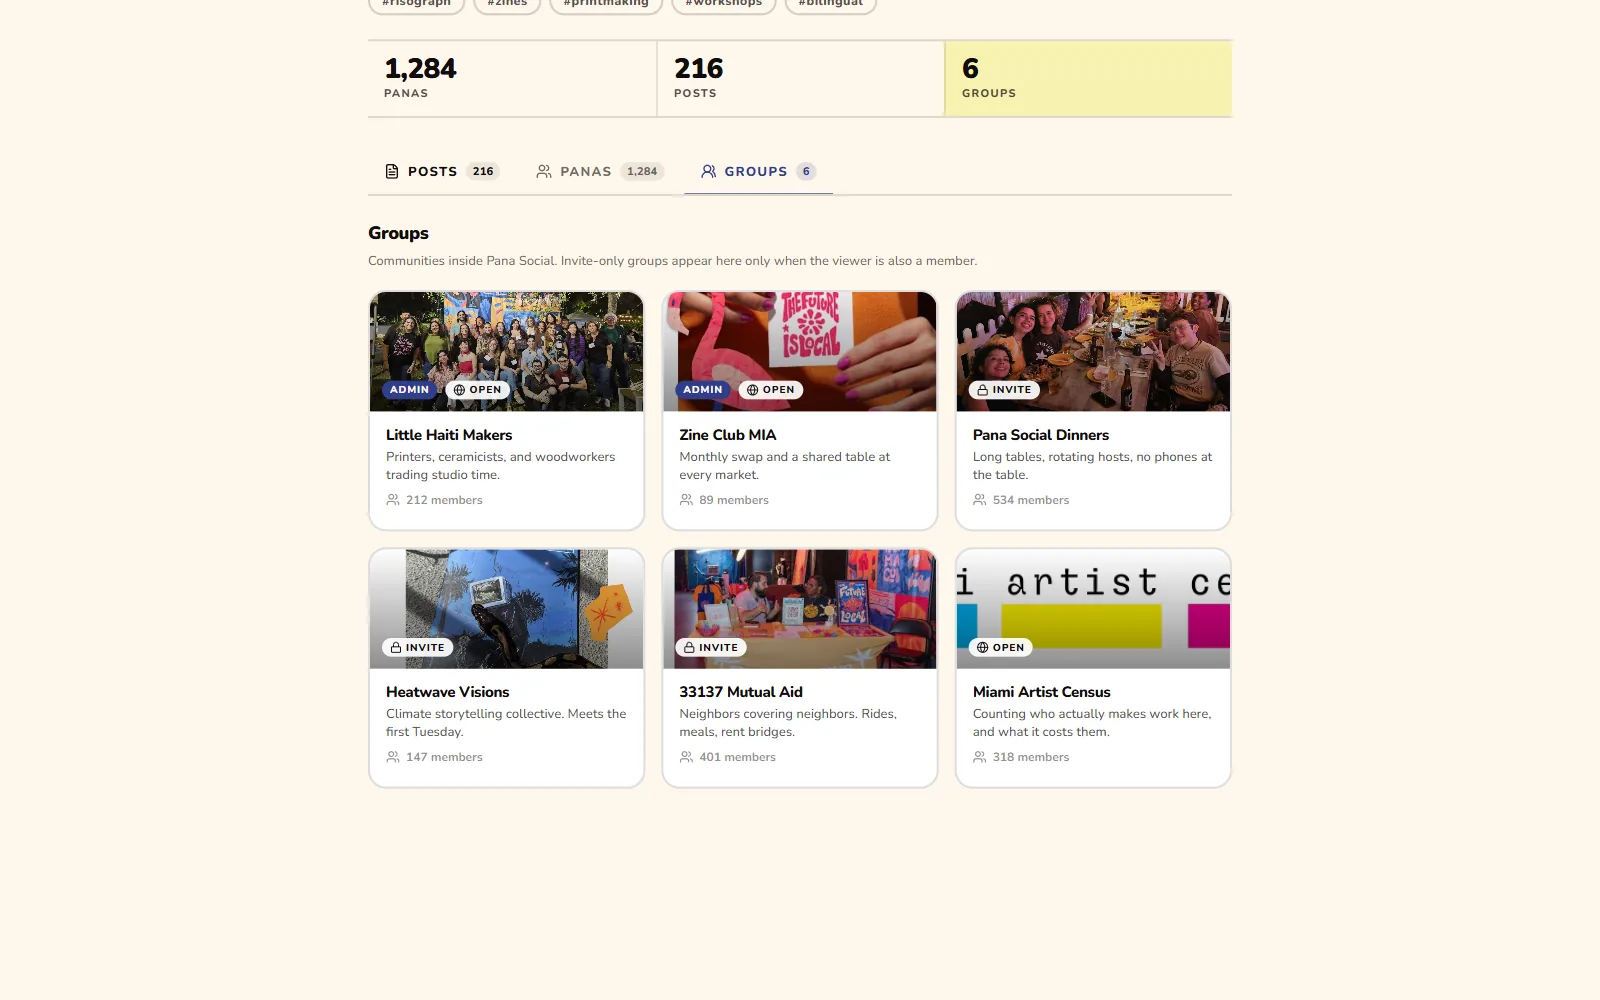
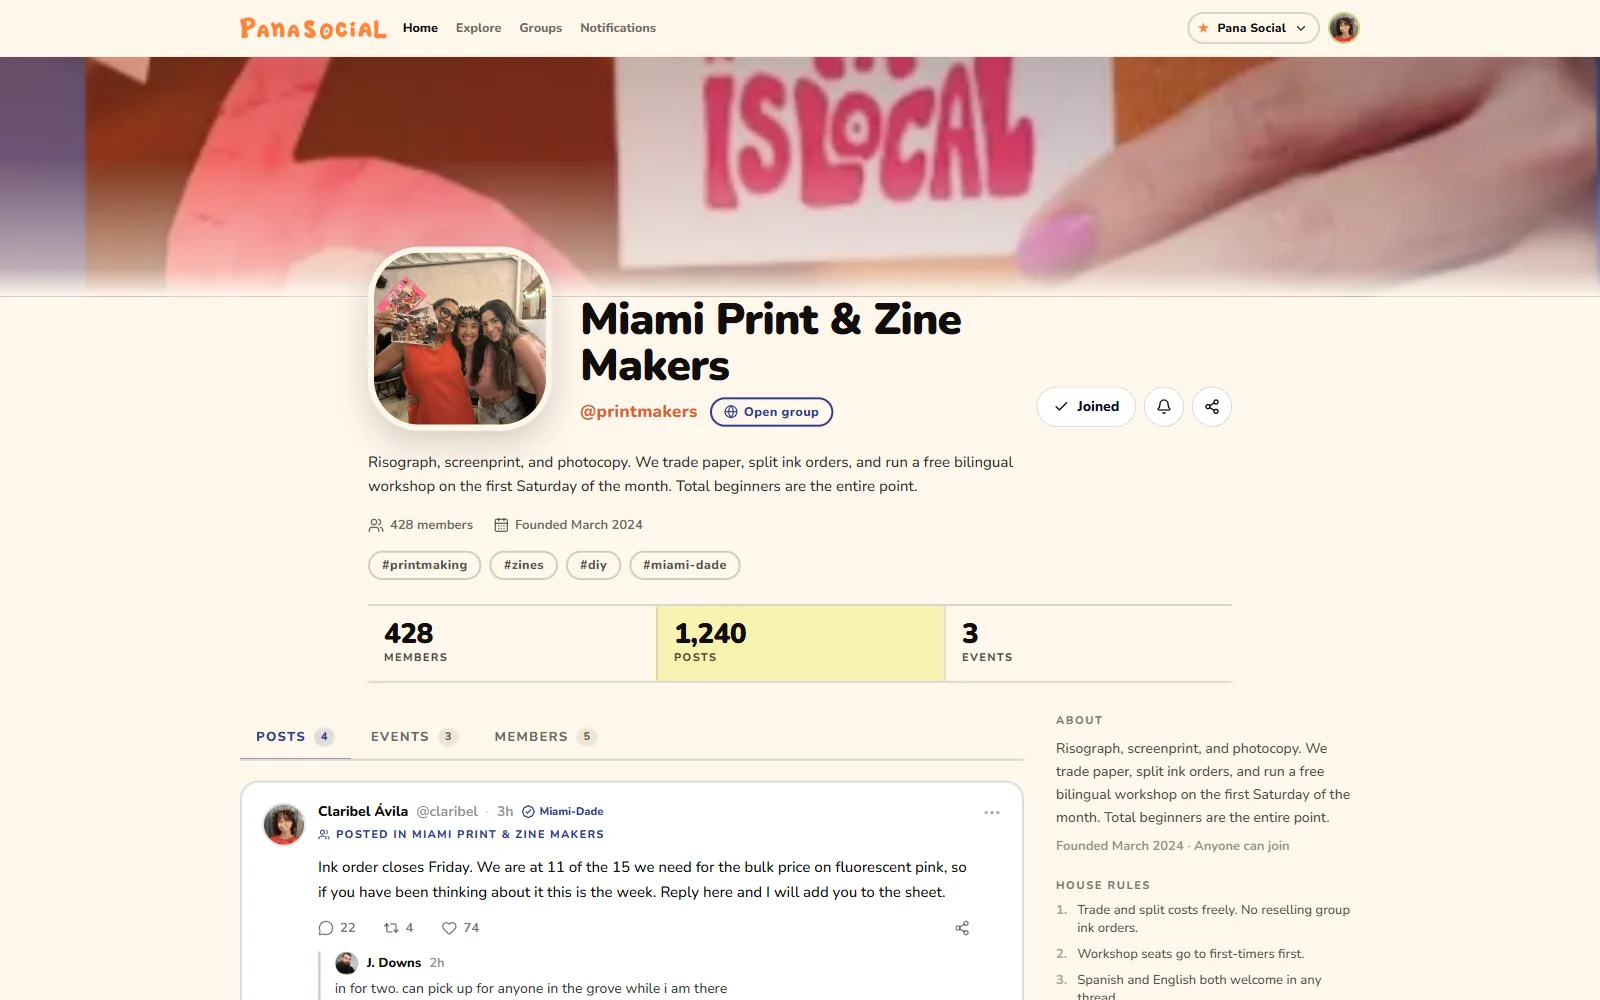
feat(social): reshoot the tour against the mocks that shipped
Rebasing onto main moved the ground under these screenshots. Main had gone
24 commits past this branch's base, and three of those commits are about
exactly the surfaces the tour photographs.

Groups was shot from a personal profile's Groups tab because that was the
only place groups appeared. There is now a dedicated group mock, so the
room shows an actual group page -- cover, privacy state, member count,
house rules, a post -- instead of a list of groups somebody belongs to.

Events gets a frame at last. It was left empty on the belief that it could
not be photographed without Postgres, which was true of /e and beside the
point: the group mock carries an Events tab, and shooting it there says
something /e cannot, which is that an event belongs to the people already
gathered rather than to a calendar.

Profiles was the stale one. It came from /mock/profile, and the layout that
shipped to /p/[user] is the identity rail in /mock/profile-next. Both mocks
render identical fixtures, so the old capture looked perfectly plausible
while showing a design the product had already left behind.

Stories keeps its empty frame but loses a claim that was simply wrong. It
is built -- StoryRing, the stories rail, a batched summary endpoint, a
nightly expiry purge -- and its ring is visible on the avatar in the
profiles shot. It has no capture because StoriesRail renders nothing
without a signed-in viewer who follows panas with unexpired stories, and
no mock stands in for that.
[…]

diff --git a/components/offerings/offering-front-page.tsx b/components/offerings/offering-front-page.tsx
@@ -141,31 +141,45 @@ interface TourShot {
  * illustration dressed as a screenshot is a promise about software that may
  * not look like that yet.
  *
- * ## Where the three present shots came from
+ * ## Where the four present shots came from
  *
- * They are captures of this repo's own design mocks — `/mock/feed` for the
- * feed, and `/mock/profile` for profiles and groups — taken at 1600x1000 with
- * the surrounding site header, footer and `.mock-toolbar` removed, so the
- * frame holds the product and nothing else.
+ * All four are captures of this repo's own design mocks, taken at 1600x1000
+ * with the surrounding site header, footer and `.mock-toolbar` removed, so
+ * the frame holds the product and nothing else:
  *
- * `events` and `stories` are absent for different reasons.
+ * - `feed` — `/mock/feed`.
+ * - `groups` and `events` — `/mock/group`, whose Posts and Events tabs are
+ *   two views of one surface. Events is shot there rather than at `/e`
+ *   because the point of the room is that an event belongs to the people
+ *   already gathered, and the group page is where that is visible.
+ * - `profiles` — `/mock/profile-next`, not `/mock/profile`. The `-next` mock
+ *   is the identity-rail layout that shipped to `/p/[user]`; the older one is
+ *   kept beside it for comparison and no longer matches the product.
  *
- * Events is built, and well built — `/e` is the calendar, `/e/new` posts
- * one, and there is RSVP, attendee management, `.ics` export and a
- * federation endpoint behind it. It has no shot here only because those
- * routes need the Postgres instance, which a local checkout does not have,
- * and there is no design mock standing in for them. What the feed mock's
- * rail files under "coming to the feed" is narrower than it sounds: it
- * means events are not surfaced *inside the social feed* yet, not that
- * events do not exist. Capture `/e` against a real database and add it.
+ * That last distinction is the trap worth flagging: both mocks render the
+ * same fixtures, so a stale capture looks perfectly plausible. Check which
+ * layout `app/p/[user]/_components/personal/` actually renders before
+ * reshooting.
  *
- * Stories is the one that genuinely is not built. Nothing in this codebase
- * answers to it, so there is nothing truthful to photograph.
+ * ## Why stories has no shot
+ *
+ * Not because it is unbuilt — it is. `components/social/StoryRing.tsx` and
+ * `app/s/_components/stories-rail.tsx` are live, backed by a batched summary
+ * endpoint and a nightly expiry purge, and the ring is already visible on the
+ * avatar in `profiles.webp`.
+ *
+ * It has no shot because it cannot honestly be photographed from a local
+ * checkout. `StoriesRail` returns `null` without a signed-in actor, and even
+ * with one it draws only the panas that viewer follows who have something
+ * live in the last 24 hours — so the strip needs a real session, real
+ * follows and unexpired stories all at once. No mock stands in for it.
+ * Capture it from a seeded environment and add it.
  */
 const TOUR_SHOTS: Record<string, Partial<Record<TourKey, TourShot>>> = {
   social: {
     feed: { src: '/img/social/feed.webp', width: 1600, height: 1000 },
     groups: { src: '/img/social/groups.webp', width: 1600, height: 1000 },
+    events: { src: '/img/social/events.webp', width: 1600, height: 1000 },
     profiles: { src: '/img/social/profiles.webp', width: 1600, height: 1000 },
   },
 };
